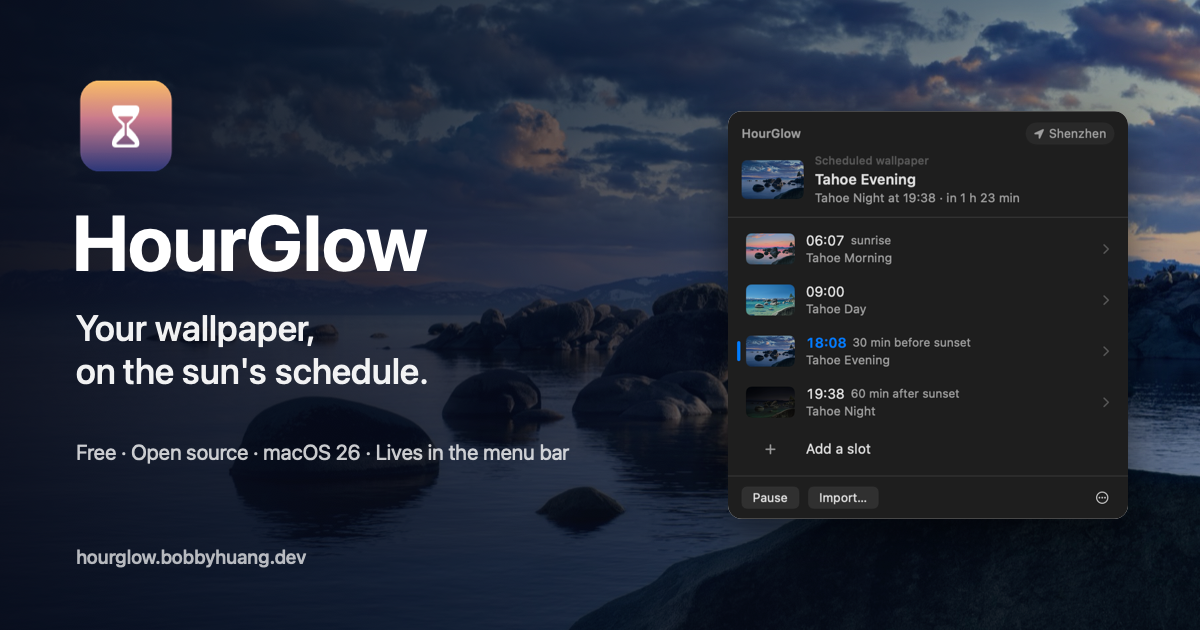
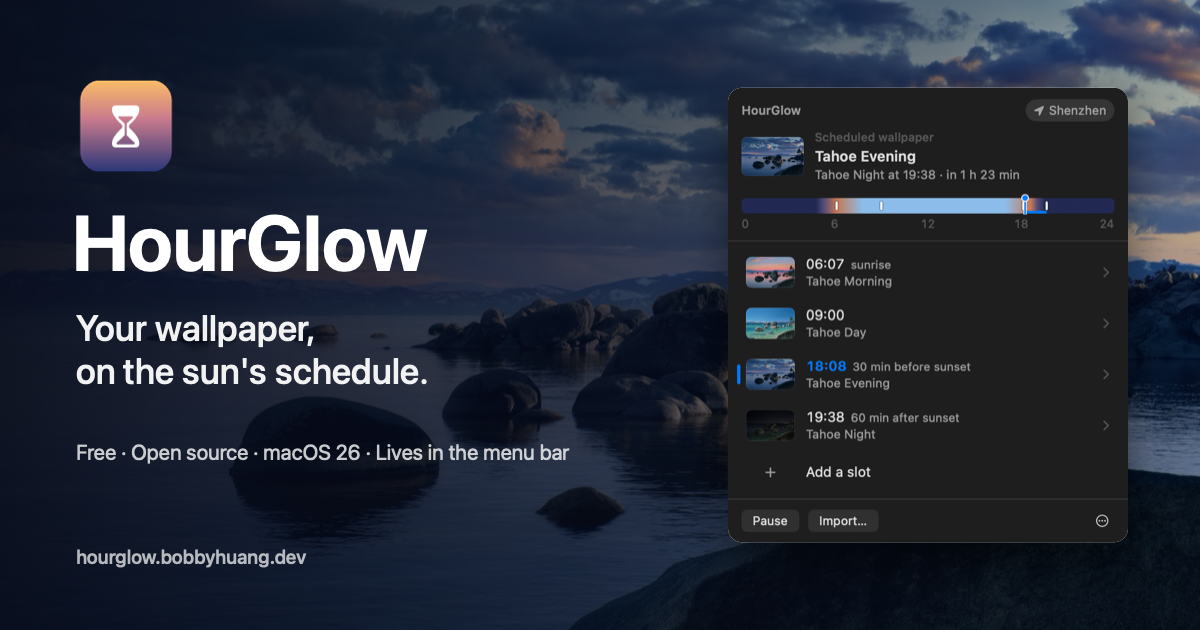
Refresh panel screenshots and share card for the daylight bar
The app panel gained a today's-daylight bar and a now marker, so the
six panel shots, og.png and the README GIF's sibling card were re-shot
from the current build.

- Shots now come from a throwaway HOURGLOW_HOME with Shenzhen set
  explicitly; the previous set was taken against a live config and
  showed Huiyang plus the "background daemon is scheduling" notice.
- Timeline and slot shots grew (782→818, 842→870); update the <img>
  height attributes in index.html so they don't shift on load.
- README: document the HOURGLOW_HOME step and the height check.

Changed region(s): [[0.5858, 0.1206, 0.9558, 0.754], [0.5858, 0.7841, 0.9558, 0.8746]]

diff --git a/index.html b/index.html
@@ -140,15 +140,15 @@
       <div class="screens">
         <figure>
           <div class="panel-frame">
-            <img class="shot-light" src="assets/panel-timeline.png" alt="The timeline: today's slots with their resolved times." data-i18n-alt="shotTimelineAlt" width="720" height="782" loading="lazy">
-            <img class="shot-dark" src="assets/panel-timeline-dark.png" alt="The timeline: today's slots with their resolved times." data-i18n-alt="shotTimelineAlt" width="720" height="782" loading="lazy">
+            <img class="shot-light" src="assets/panel-timeline.png" alt="The timeline: today's slots with their resolved times." data-i18n-alt="shotTimelineAlt" width="720" height="818" loading="lazy">
+            <img class="shot-dark" src="assets/panel-timeline-dark.png" alt="The timeline: today's slots with their resolved times." data-i18n-alt="shotTimelineAlt" width="720" height="818" loading="lazy">
           </div>
           <figcaption data-i18n="shotTimeline">Today at a glance. Add as many slots as you like.</figcaption>
         </figure>
         <figure>
           <div class="panel-frame">
-            <img class="shot-light" src="assets/panel-slot.png" alt="A slot editor with Clock, Sunrise and Sunset triggers." data-i18n-alt="shotSlotAlt" width="720" height="842" loading="lazy">
-            <img class="shot-dark" src="assets/panel-slot-dark.png" alt="A slot editor with Clock, Sunrise and Sunset triggers." data-i18n-alt="shotSlotAlt" width="720" height="842" loading="lazy">
+            <img class="shot-light" src="assets/panel-slot.png" alt="A slot editor with Clock, Sunrise and Sunset triggers." data-i18n-alt="shotSlotAlt" width="720" height="870" loading="lazy">
+            <img class="shot-dark" src="assets/panel-slot-dark.png" alt="A slot editor with Clock, Sunrise and Sunset triggers." data-i18n-alt="shotSlotAlt" width="720" height="870" loading="lazy">
           </div>
           <figcaption data-i18n="shotSlot">A fixed time, or sunrise and sunset with an offset.</figcaption>
         </figure>

diff --git a/README.md b/README.md
@@ -56,15 +56,21 @@ cd ../hourglow && ./build.sh && Tools/makedemo.sh   # writes ../hourglow-web/ass
 ```
 
 To refresh screenshots after a UI change (the site swaps light and dark shots with its theme,
-so shoot both; `--now` pins the "next switch" countdown so the pair matches):
+so shoot both; `--now` pins the "next switch" countdown so the pair matches). Point
+`HOURGLOW_HOME` at a throwaway directory: with the real config, the running app holds the
+scheduler lock and the panel shows a "background daemon is scheduling" notice, plus whatever
+city you actually live in.
 
 ```bash
 cd ../hourglow && ./build.sh
-mkdir -p /tmp/shots-light /tmp/shots-dark
-HOURGLOW_LANG=en ./build/panelshot /tmp/shots-light --appearance light --now 2026-09-03T15:55
-HOURGLOW_LANG=en ./build/panelshot /tmp/shots-dark  --appearance dark  --now 2026-09-03T15:55
+export HOURGLOW_HOME=/tmp/hg-shots HOURGLOW_LANG=en
+rm -rf "$HOURGLOW_HOME" /tmp/shots-light /tmp/shots-dark; mkdir -p /tmp/shots-light /tmp/shots-dark
+./build/hourglow-cli location 22.5431 114.0579 Shenzhen
+./build/panelshot /tmp/shots-light --appearance light --now 2026-09-04T15:55
+./build/panelshot /tmp/shots-dark  --appearance dark  --now 2026-09-04T15:55
 for n in 1-timeline:timeline 2-slot:slot 3-picker:picker; do
   cp /tmp/shots-light/${n%%:*}.png ../hourglow-web/assets/panel-${n##*:}.png
   cp /tmp/shots-dark/${n%%:*}.png  ../hourglow-web/assets/panel-${n##*:}-dark.png
 done
+sips -g pixelHeight ../hourglow-web/assets/panel-*.png   # the <img> tags in index.html hardcode width/height
 ```
